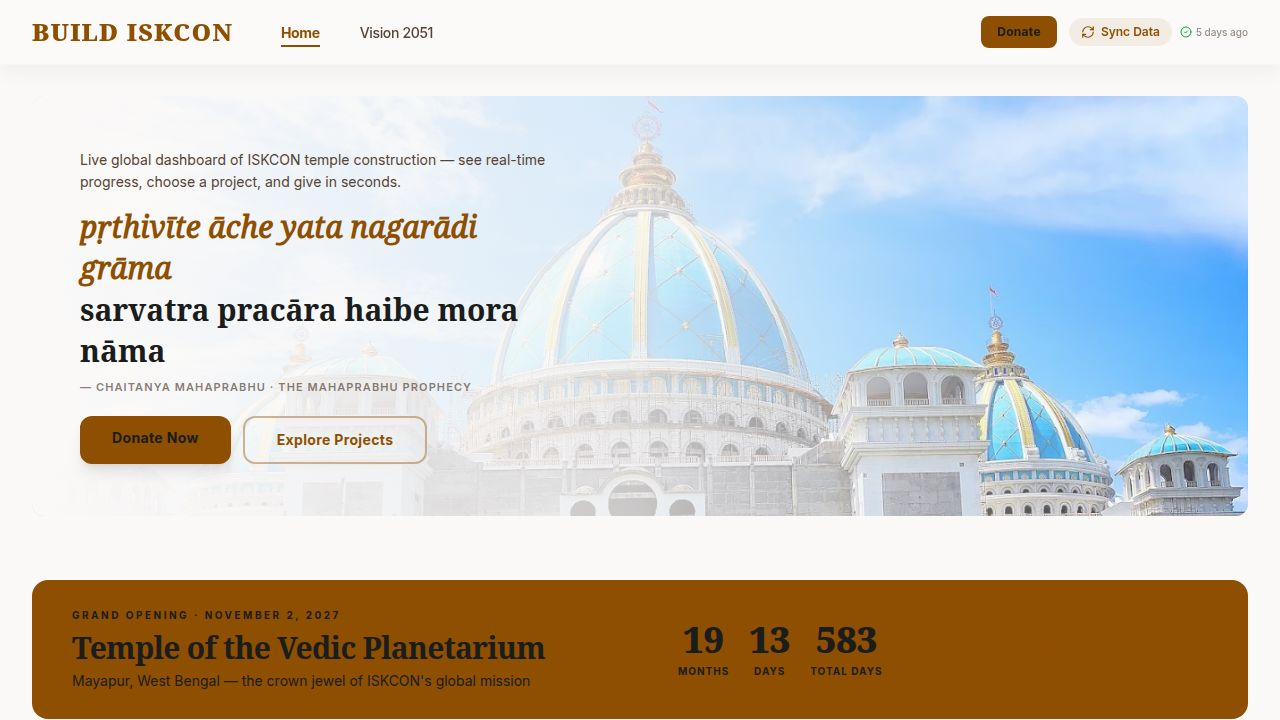
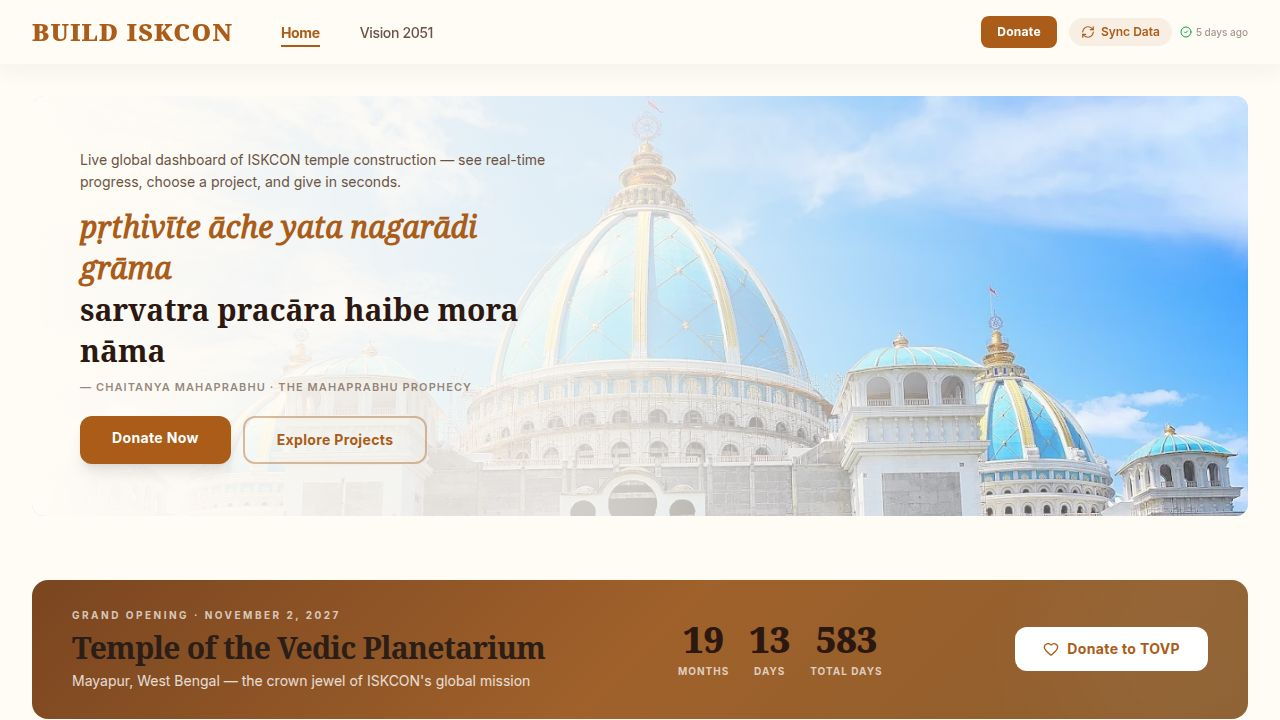
Update the application's color palette to a warmer, more cohesive theme
Refactor CSS variables, component color configurations, and image assets to replace cold color tones with warm alternatives across the entire application, ensuring a consistent visual aesthetic and updating the replit.md documentation to reflect these changes.

Replit-Commit-Author: Agent
Replit-Commit-Session-Id: 08dc9cd1-88f4-4794-a07c-bc804d312139
Replit-Commit-Checkpoint-Type: full_checkpoint
Replit-Commit-Event-Id: c5d725a0-89fe-4bd3-a075-265cc9a51cc4
Replit-Commit-Screenshot-Url: https://storage.googleapis.com/screenshot-production-us-central1/0337a8f1-8337-4655-af39-57cd7197c13c/08dc9cd1-88f4-4794-a07c-bc804d312139/M2tVvpH
Replit-Helium-Checkpoint-Created: true

diff --git a/artifacts/temple-tracker/src/pages/dashboard.tsx b/artifacts/temple-tracker/src/pages/dashboard.tsx
@@ -200,10 +200,10 @@ function useTemples() {
 // ── Global Site Map Section ───────────────────────────────────────────────────
 
 const STATUS_CFG: Record<string, { color: string; bg: string }> = {
-  planning:     { color: "#a78bfa", bg: "rgba(167,139,250,0.08)" },
-  construction: { color: "#f59e0b", bg: "rgba(245,158,11,0.08)" },
-  finishing:    { color: "#8f4e00", bg: "rgba(143,78,0,0.08)" },
-  consecrated:  { color: "#22c55e", bg: "rgba(34,197,94,0.3)" },
+  planning:     { color: "#C49A6C", bg: "rgba(196,154,108,0.10)" },
+  construction: { color: "#D4872E", bg: "rgba(212,135,46,0.10)" },
+  finishing:    { color: "#9B6B2F", bg: "rgba(155,107,47,0.10)" },
+  consecrated:  { color: "#6B8F3C", bg: "rgba(107,143,60,0.12)" },
 };
 
 function GlobalMapSection() {
@@ -330,8 +330,8 @@ function CountdownBanner() {
 
   return (
     <motion.section variants={fadeInUp} initial="hidden" animate="visible">
-      <div className="relative overflow-hidden bg-primary text-on-primary rounded-2xl px-6 sm:px-10 py-7 flex flex-col sm:flex-row items-center justify-between gap-6">
-        <div className="absolute -top-16 -right-16 w-64 h-64 bg-on-primary/10 rounded-full blur-3xl pointer-events-none" />
+      <div className="relative overflow-hidden rounded-2xl px-6 sm:px-10 py-7 flex flex-col sm:flex-row items-center justify-between gap-6" style={{ background: "linear-gradient(135deg, #7A4520 0%, #A0612B 50%, #8B5E2F 100%)" }}>
+        <div className="absolute -top-16 -right-16 w-64 h-64 bg-white/5 rounded-full blur-3xl pointer-events-none" />
         <div className="relative z-10">
           <p className="text-[10px] font-bold uppercase tracking-[0.25em] text-on-primary/70 mb-1.5">Grand Opening · November 2, 2027</p>
           <h2 className="font-serif text-2xl sm:text-3xl font-bold leading-tight">Temple of the Vedic Planetarium</h2>
@@ -404,7 +404,7 @@ function ActiveProjectsDonation() {
         <motion.div variants={staggerContainer} className="grid grid-cols-1 md:grid-cols-3 gap-6">
           {urgentTemples.map((temple, idx) => {
             const donateUrl = temple.donateUrl || "https://www.iskcon.org/donate";
-            const qrSrc = `https://api.qrserver.com/v1/create-qr-code/?size=160x160&bgcolor=fff8f0&color=8f4e00&data=${encodeURIComponent(donateUrl)}`;
+            const qrSrc = `https://api.qrserver.com/v1/create-qr-code/?size=160x160&bgcolor=FFFBF5&color=A0612B&data=${encodeURIComponent(donateUrl)}`;
             const pct = temple.fundraisingGoal > 0
               ? Math.round((temple.fundraisingRaised / temple.fundraisingGoal) * 100)
               : 0;
@@ -491,7 +491,7 @@ const SEVA_TIERS = [
     amount: "₹1,000",
     amountUSD: "$12",
     desc: "Your name is inscribed on a sacred brick, permanently enshrined in the temple walls.",
-    color: "bg-amber-50 border-amber-200",
+    color: "bg-amber-50/60 border-amber-200/60",
   },
   {
     emoji: "🏛",
@@ -499,7 +499,7 @@ const SEVA_TIERS = [
     amount: "₹11,000",
     amountUSD: "$130",
     desc: "Contribute to the structural pillars that uphold the divine sanctuary.",
-    color: "bg-orange-50 border-orange-200",
+    color: "bg-orange-50/60 border-orange-200/60",
   },
   {
     emoji: "🙏",
@@ -507,7 +507,7 @@ const SEVA_TIERS = [
     amount: "₹51,000",
     amountUSD: "$610",
     desc: "Fund the sacred altar adornments and the deities' paraphernalia.",
-    color: "bg-yellow-50 border-yellow-200",
+    color: "bg-amber-50/80 border-amber-300/50",
   },
   {
     emoji: "🌸",
@@ -515,7 +515,7 @@ const SEVA_TIERS = [
     amount: "₹1,00,000",
     amountUSD: "$1,200",
     desc: "Your patronage sustains the entire sacred mandala of the construction.",
-    color: "bg-rose-50 border-rose-200",
+    color: "bg-orange-50/80 border-orange-300/50",
   },
   {
     emoji: "🕌",
@@ -523,7 +523,7 @@ const SEVA_TIERS = [
     amount: "₹5,00,000",
     amountUSD: "$6,000",
     desc: "The highest honour — your name permanently enshrined as a founding benefactor.",
-    color: "bg-primary/5 border-primary/30",
+    color: "bg-primary/8 border-primary/20",
   },
 ];
 
@@ -654,10 +654,10 @@ function BlogsPreview() {
   const categoryColors: Record<string, string> = {
     Architecture: "bg-primary/10 text-primary",
     Giving: "bg-secondary/10 text-secondary",
-    Seva: "bg-amber-100 text-amber-800",
-    Community: "bg-blue-50 text-blue-700",
-    Philosophy: "bg-violet-50 text-violet-700",
-    Vision: "bg-green-50 text-green-700",
+    Seva: "bg-amber-100/60 text-amber-800",
+    Community: "bg-orange-100/50 text-orange-800",
+    Philosophy: "bg-yellow-100/50 text-yellow-800",
+    Vision: "bg-primary/8 text-primary",
   };
 
   return (
@@ -851,8 +851,8 @@ function RegionalQuickStats() {
 
   const regionColor = (region: string): string => {
     const map: Record<string, string> = {
-      "South Asia": "bg-primary", Africa: "bg-amber-600", Americas: "bg-blue-600",
-      Oceania: "bg-teal-600", Europe: "bg-secondary", "East Asia": "bg-violet-600",
+      "South Asia": "bg-primary", Africa: "bg-amber-700", Americas: "bg-amber-600",
+      Oceania: "bg-yellow-700", Europe: "bg-secondary", "East Asia": "bg-orange-700",
     };
     return map[region] ?? "bg-on-surface-variant";
   };
@@ -943,7 +943,7 @@ function RegionalQuickStats() {
               <div className="flex items-center justify-between mb-4">
                 <Globe className="w-5 h-5 text-primary" />
                 <span className={`text-[10px] font-bold uppercase px-2 py-1 rounded-full ${
-                  n.confidence === "High" ? "bg-green-50 text-green-700" : "bg-primary/10 text-primary"
+                  n.confidence === "High" ? "bg-primary/10 text-primary" : "bg-secondary/10 text-secondary"
                 }`}>
                   {n.confidence} confidence
                 </span>
@@ -1247,14 +1247,14 @@ export default function Dashboard() {
                   <YAxis
                     axisLine={false}
                     tickLine={false}
-                    tick={{ fill: "#554336", fontSize: 12, fontWeight: 600 }}
+                    tick={{ fill: "#6B5344", fontSize: 12, fontWeight: 600 }}
                     width={40}
                   />
                   <XAxis
                     dataKey="name"
                     axisLine={false}
                     tickLine={false}
-                    tick={{ fill: "#554336", fontSize: 12, fontWeight: 600 }}
+                    tick={{ fill: "#6B5344", fontSize: 12, fontWeight: 600 }}
                     dy={10}
                   />
                   <RechartsTooltip

diff --git a/artifacts/temple-tracker/src/index.css b/artifacts/temple-tracker/src/index.css
@@ -37,51 +37,54 @@
   --font-serif: 'Noto Serif', serif;
 
   --color-primary-container: #ff9933;
-  --color-on-primary-container: #693800;
-  --color-secondary-container: #fed65b;
-  --color-on-secondary-container: #745c00;
-  --color-surface: #fbf9f8;
-  --color-on-surface: #1b1c1c;
-  --color-surface-container: #f0eded;
-  --color-surface-container-low: #f6f3f2;
-  --color-surface-container-high: #eae7e7;
-  --color-surface-container-lowest: #ffffff;
-  --color-surface-container-highest: #e4e2e1;
-  --color-on-surface-variant: #554336;
-  --color-outline-variant: #dbc2b0;
-  --color-tertiary: #545f72;
+  --color-on-primary-container: #5C3000;
+  --color-secondary-container: #FCEBC2;
+  --color-on-secondary-container: #6B4D00;
+  --color-surface: #FFFBF5;
+  --color-on-surface: #2C1810;
+  --color-surface-container: #F5EDE4;
+  --color-surface-container-low: #FAF5EE;
+  --color-surface-container-high: #EFE6DC;
+  --color-surface-container-lowest: #FFFFFF;
+  --color-surface-container-highest: #E8DFD5;
+  --color-on-surface-variant: #6B5344;
+  --color-outline-variant: #D4BCA8;
+  --color-tertiary: #6B6040;
   --color-error: #ba1a1a;
   --color-error-container: #ffdad6;
+  --color-on-primary: #FFFFFF;
+  --color-on-secondary: #FFFFFF;
+  --color-on-tertiary: #FFFFFF;
 }
 
 :root {
-  --background: 30 33% 98%;
-  --foreground: 180 3% 11%;
-  --card: 0 0% 100%;
-  --card-foreground: 180 3% 11%;
-  --primary: 33 100% 28%;
+  --background: 34 60% 98%;
+  --foreground: 18 30% 13%;
+  --card: 34 50% 99%;
+  --card-foreground: 18 30% 13%;
+  --primary: 28 75% 38%;
   --primary-foreground: 0 0% 100%;
-  --secondary: 46 100% 22%;
+  --secondary: 36 60% 32%;
   --secondary-foreground: 0 0% 100%;
-  --muted: 24 8% 93%;
-  --muted-foreground: 17 22% 27%;
-  --accent: 37 100% 60%;
-  --accent-foreground: 26 100% 20%;
-  --border: 27 33% 78%;
-  --input: 27 33% 78%;
-  --ring: 33 100% 28%;
-  --sidebar: 30 25% 95%;
-  --sidebar-foreground: 180 3% 11%;
+  --muted: 30 20% 93%;
+  --muted-foreground: 20 20% 35%;
+  --accent: 35 85% 55%;
+  --accent-foreground: 20 80% 18%;
+  --border: 28 25% 82%;
+  --input: 28 25% 82%;
+  --ring: 28 75% 38%;
+  --sidebar: 32 30% 95%;
+  --sidebar-foreground: 18 30% 13%;
   --popover: 0 0% 100%;
-  --popover-foreground: 180 3% 11%;
+  --popover-foreground: 18 30% 13%;
   --destructive: 0 73% 41%;
   --destructive-foreground: 0 0% 100%;
 
-  --chart-1: 33 100% 28%;
-  --chart-2: 46 100% 22%;
-  --chart-3: 220 15% 38%;
-  --chart-4: 37 100% 60%;
-  --chart-5: 27 33% 78%;
+  --chart-1: 28 75% 38%;
+  --chart-2: 36 60% 32%;
+  --chart-3: 30 30% 45%;
+  --chart-4: 35 85% 55%;
+  --chart-5: 28 25% 82%;
 
   --radius: 0.75rem;
 }

diff --git a/artifacts/temple-tracker/src/components/shared/StatusBadge.tsx b/artifacts/temple-tracker/src/components/shared/StatusBadge.tsx
@@ -9,25 +9,23 @@ interface StatusBadgeProps {
 export function StatusBadge({ status, className }: StatusBadgeProps) {
   const getStatusConfig = () => {
     switch (status) {
-      // Temple Statuses
       case "planning":
-        return { label: "Planning", classes: "bg-blue-50 text-blue-700 ring-blue-200" };
+        return { label: "Planning", classes: "bg-amber-50 text-amber-700 ring-amber-200" };
       case "construction":
-        return { label: "Construction", classes: "bg-amber-50 text-amber-700 ring-amber-200" };
+        return { label: "Construction", classes: "bg-orange-50 text-orange-700 ring-orange-200" };
       case "finishing":
-        return { label: "Finishing", classes: "bg-purple-50 text-purple-700 ring-purple-200" };
+        return { label: "Finishing", classes: "bg-yellow-50 text-yellow-800 ring-yellow-200" };
       case "consecrated":
-        return { label: "Consecrated", classes: "bg-emerald-50 text-emerald-700 ring-emerald-200" };
+        return { label: "Consecrated", classes: "bg-lime-50 text-lime-800 ring-lime-200" };
       case "operational":
         return { label: "Operational", classes: "bg-primary/10 text-primary ring-primary/20" };
       
-      // Milestone Statuses
       case "pending":
         return { label: "Pending", classes: "bg-gray-100 text-gray-600 ring-gray-200" };
       case "in_progress":
         return { label: "In Progress", classes: "bg-amber-50 text-amber-700 ring-amber-200" };
       case "completed":
-        return { label: "Completed", classes: "bg-emerald-50 text-emerald-700 ring-emerald-200" };
+        return { label: "Completed", classes: "bg-lime-50 text-lime-800 ring-lime-200" };
       
       default:
         return { label: status, classes: "bg-gray-50 text-gray-700 ring-gray-200" };

diff --git a/artifacts/temple-tracker/src/pages/regional-insights.tsx b/artifacts/temple-tracker/src/pages/regional-insights.tsx
@@ -75,7 +75,7 @@ interface RegionalData {
 
 function statusStyle(status: string): string {
   if (status === "Active Construction") return "text-primary bg-primary/10";
-  if (status === "Near Completion")     return "text-green-700 bg-green-50";
+  if (status === "Near Completion")     return "text-lime-800 bg-lime-50";
   if (status === "Planning Phase")      return "text-secondary bg-secondary/10";
   return "text-on-surface-variant bg-surface-container";
 }
@@ -92,10 +92,10 @@ function regionColor(region: string): string {
   const map: Record<string, string> = {
     "South Asia": "bg-primary",
     "Africa": "bg-amber-600",
-    "Americas": "bg-blue-600",
-    "Oceania": "bg-teal-600",
+    "Americas": "bg-amber-600",
+    "Oceania": "bg-yellow-700",
     "Europe": "bg-secondary",
-    "East Asia": "bg-violet-600",
+    "East Asia": "bg-orange-700",
   };
   return map[region] ?? "bg-on-surface-variant";
 }
@@ -306,7 +306,7 @@ export default function RegionalInsights() {
                     <Globe className="w-5 h-5 text-primary" />
                     <span className={cn(
                       "text-[10px] font-bold uppercase px-2 py-1 rounded-full",
-                      n.confidence === "High" ? "bg-green-50 text-green-700" : "bg-primary/10 text-primary"
+                      n.confidence === "High" ? "bg-primary/10 text-primary" : "bg-secondary/10 text-secondary"
                     )}>
                       {n.confidence} confidence
                     </span>

diff --git a/artifacts/temple-tracker/src/pages/vision2051.tsx b/artifacts/temple-tracker/src/pages/vision2051.tsx
@@ -458,7 +458,7 @@ const PHASE_COUNTS = [1, 2, 3].map((p) => ({
 
 const PRIORITY_COLOR = {
   high: "text-amber-400",
-  medium: "text-blue-400",
+  medium: "text-orange-400",
   planned: "text-on-surface-variant/50",
 };
 
@@ -834,9 +834,9 @@ export default function Vision2051() {
         >
           <span className="text-xs font-bold uppercase tracking-widest text-on-surface-variant/60 mr-2">Priority:</span>
           <span className="flex items-center gap-1.5 text-xs text-amber-400 font-semibold"><Star className="w-3.5 h-3.5" /> High Priority</span>
-          <span className="flex items-center gap-1.5 text-xs text-blue-400 font-semibold"><Star className="w-3.5 h-3.5" /> Medium Priority</span>
+          <span className="flex items-center gap-1.5 text-xs text-orange-400 font-semibold"><Star className="w-3.5 h-3.5" /> Medium Priority</span>
           <span className="flex items-center gap-1.5 text-xs text-on-surface-variant/50 font-semibold"><Star className="w-3.5 h-3.5" /> Planned</span>
-          <span className="flex items-center gap-1.5 text-xs text-emerald-400 font-semibold"><CheckCircle2 className="w-3.5 h-3.5" /> Existing ISKCON</span>
+          <span className="flex items-center gap-1.5 text-xs text-lime-600 font-semibold"><CheckCircle2 className="w-3.5 h-3.5" /> Existing ISKCON</span>
         </motion.div>
 
         {/* ── Filters ── */}

diff --git a/artifacts/temple-tracker/src/pages/temple-detail.tsx b/artifacts/temple-tracker/src/pages/temple-detail.tsx
@@ -150,8 +150,8 @@ export default function TempleDetail() {
                 />
                 <defs>
                   <linearGradient id="progressGrad" x1="0%" y1="0%" x2="100%" y2="0%">
-                    <stop offset="0%" stopColor="#8f4e00" />
-                    <stop offset="100%" stopColor="#735c00" />
+                    <stop offset="0%" stopColor="#A0612B" />
+                    <stop offset="100%" stopColor="#8B5E2F" />
                   </linearGradient>
                 </defs>
               </svg>
@@ -203,7 +203,7 @@ export default function TempleDetail() {
           {/* Donation & QR Panel — full width */}
           {(() => {
             const donateUrl = (temple as any).donateUrl || "https://www.iskcon.org/donate";
-            const qrSrc = `https://api.qrserver.com/v1/create-qr-code/?size=200x200&bgcolor=fff8f0&color=8f4e00&data=${encodeURIComponent(donateUrl)}`;
+            const qrSrc = `https://api.qrserver.com/v1/create-qr-code/?size=200x200&bgcolor=FFFBF5&color=A0612B&data=${encodeURIComponent(donateUrl)}`;
             const gapM = Math.max(0, (temple.fundraisingGoal - temple.fundraisingRaised) / 1_000_000).toFixed(1);
             const SEVA = [
               { title: "Brick Donor", amount: "₹1,000", emoji: "🪨" },

diff --git a/artifacts/temple-tracker/src/pages/temple-list.tsx b/artifacts/temple-tracker/src/pages/temple-list.tsx
@@ -287,10 +287,10 @@ export default function TempleList() {
               <div className="mt-6 grid grid-cols-1 md:grid-cols-2 lg:grid-cols-3 gap-4">
                 {filteredTemples.map((temple) => {
                   const cfg: Record<string, { color: string; bg: string }> = {
-                    planning:     { color: "#a78bfa", bg: "rgba(167,139,250,0.08)" },
-                    construction: { color: "#f59e0b", bg: "rgba(245,158,11,0.08)" },
-                    finishing:    { color: "#8f4e00", bg: "rgba(143,78,0,0.08)" },
-                    consecrated:  { color: "#22c55e", bg: "rgba(34,197,94,0.08)" },
+                    planning:     { color: "#C49A6C", bg: "rgba(196,154,108,0.10)" },
+                    construction: { color: "#D4872E", bg: "rgba(212,135,46,0.10)" },
+                    finishing:    { color: "#9B6B2F", bg: "rgba(155,107,47,0.10)" },
+                    consecrated:  { color: "#6B8F3C", bg: "rgba(107,143,60,0.12)" },
                   };
                   const c = cfg[temple.status] ?? cfg.planning;
                   return (

diff --git a/artifacts/temple-tracker/src/components/WorldMap.tsx b/artifacts/temple-tracker/src/components/WorldMap.tsx
@@ -14,10 +14,10 @@ import { MapPin, X } from "lucide-react";
 const GEO_URL = `${import.meta.env.BASE_URL}countries-110m.json`;
 
 const STATUS_CONFIG: Record<string, { color: string; ring: string; label: string }> = {
-  planning:     { color: "#a78bfa", ring: "rgba(167,139,250,0.3)", label: "Planning" },
-  construction: { color: "#f59e0b", ring: "rgba(245,158,11,0.3)",  label: "Construction" },
-  finishing:    { color: "#8f4e00", ring: "rgba(143,78,0,0.3)",    label: "Finishing" },
-  consecrated:  { color: "#22c55e", ring: "rgba(34,197,94,0.3)",   label: "Consecrated" },
+  planning:     { color: "#C49A6C", ring: "rgba(196,154,108,0.3)", label: "Planning" },
+  construction: { color: "#D4872E", ring: "rgba(212,135,46,0.3)",  label: "Construction" },
+  finishing:    { color: "#9B6B2F", ring: "rgba(155,107,47,0.3)",  label: "Finishing" },
+  consecrated:  { color: "#6B8F3C", ring: "rgba(107,143,60,0.3)",  label: "Consecrated" },
 };
 
 interface Temple {

diff --git a/artifacts/temple-tracker/src/pages/blogs.tsx b/artifacts/temple-tracker/src/pages/blogs.tsx
@@ -159,10 +159,10 @@ export const BLOGS: BlogPost[] = [
 
 const CATEGORY_COLORS: Record<string, string> = {
   Architecture: "bg-amber-900/30 text-amber-300 border border-amber-700/40",
-  Giving: "bg-emerald-900/30 text-emerald-300 border border-emerald-700/40",
-  Seva: "bg-rose-900/30 text-rose-300 border border-rose-700/40",
-  Community: "bg-blue-900/30 text-blue-300 border border-blue-700/40",
-  Learning: "bg-purple-900/30 text-purple-300 border border-purple-700/40",
+  Giving: "bg-orange-900/30 text-orange-300 border border-orange-700/40",
+  Seva: "bg-yellow-900/30 text-yellow-300 border border-yellow-700/40",
+  Community: "bg-amber-800/30 text-amber-200 border border-amber-600/40",
+  Learning: "bg-orange-800/30 text-orange-200 border border-orange-600/40",
   Vision: "bg-primary/20 text-primary border border-primary/30",
 };
 

diff --git a/replit.md b/replit.md
@@ -50,8 +50,10 @@ The main application is "ISKCON Intelligence" — a sacred project intelligence 
 - Route: `artifacts/api-server/src/routes/sync.ts`
 
 ### Design System
-- Branding: "ISKCON Intelligence", Noto Serif headlines, Inter body
-- Colors: saffron primary #8f4e00, gold secondary #735c00, parchment surface #fbf9f8
+- Branding: "Build Iskcon", Noto Serif headlines, Inter body
+- Colors: warm amber-sienna primary hsl(28,75%,38%), warm gold secondary hsl(36,60%,32%), warm cream surface #FFFBF5
+- All accent colors warm-only (amber, orange, yellow, lime) — no blue, purple, violet, teal, or cold tones
+- Status palette: planning=#C49A6C, construction=#D4872E, finishing=#9B6B2F, consecrated=#6B8F3C
 - Top navigation bar (glassmorphic, no sidebar)
 - No hard borders — tonal background shifts only
 - Saffron-to-gold gradient progress bars
